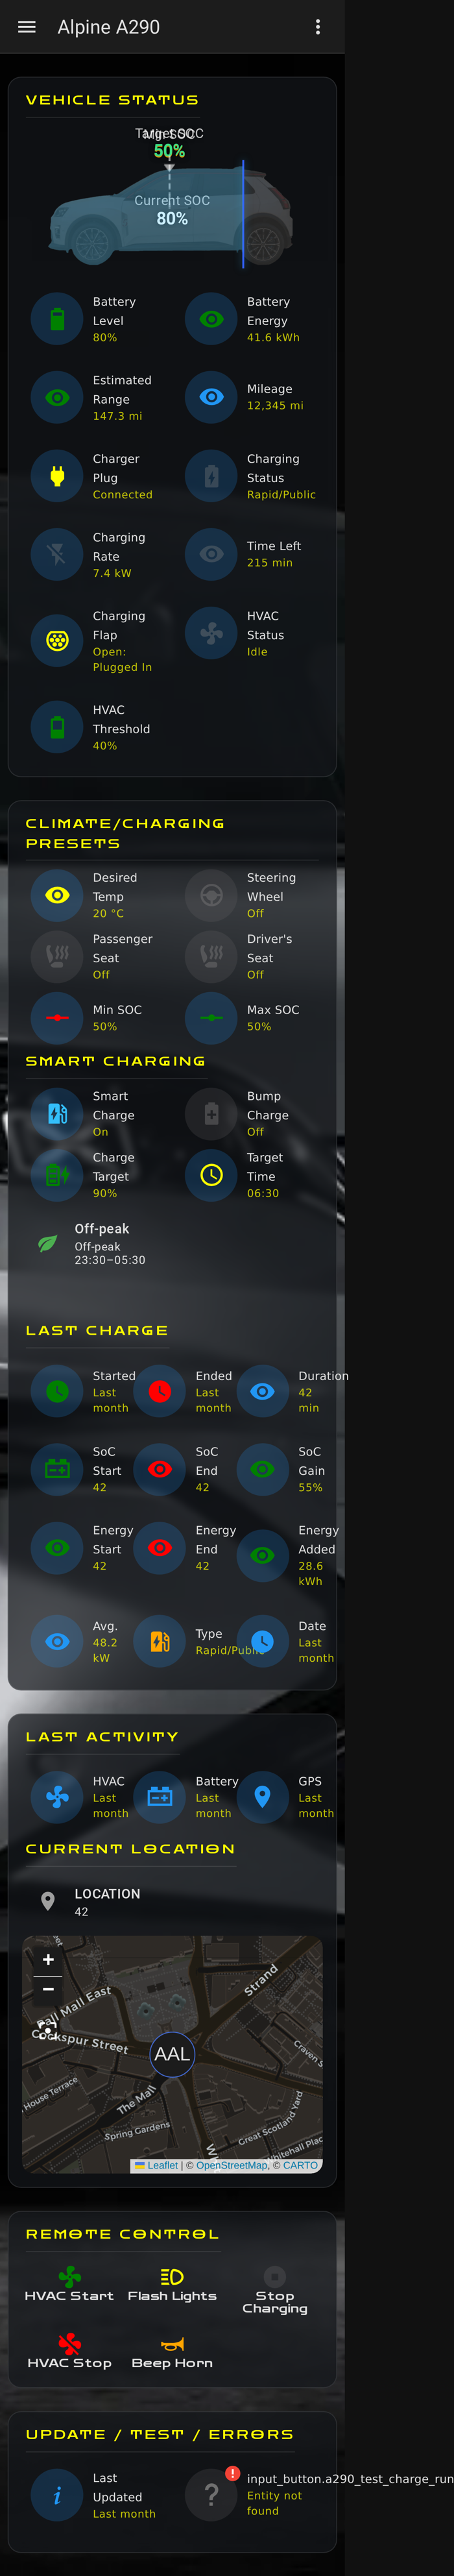
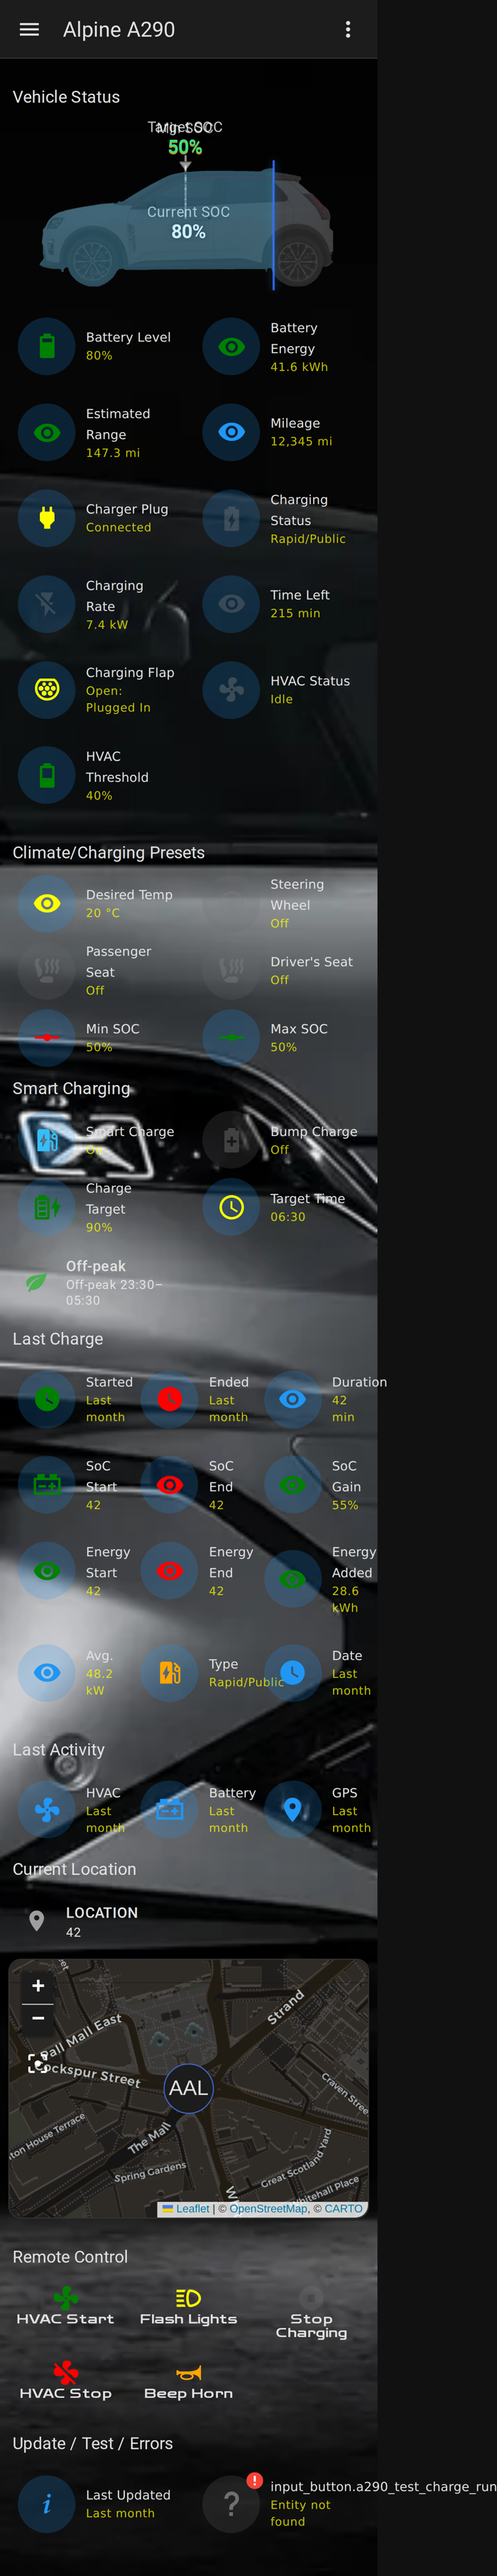
test(ui-tests): vendor Bubble Card locally instead of loading it from jsDelivr (#84)
* test(ui-tests): vendor Bubble Card locally instead of loading it from jsDelivr

Bubble Card was the only one of the four cards still loaded live from jsDelivr
(pinned to @user, a floating branch), so the truncation gate fetched ~850KB over
the network at render time — which intermittently produced a transient
hui-error-card on the widest viewport (seen once during the Galaxy S24 de-flake
work). It's also non-deterministic: @user moves under the gate, exactly what the
other three pinned cards avoid.

At a pinned release (v3.2.5) dist/bubble-card.js is a single self-contained bundle
(no dynamic chunk imports — the "chunked" note was stale), so vendor it into
www/cards like the others and register it as /local/cards/bubble-card.js. No card is
fetched over the network at render time now (the Zen Dots webfont stays remote).
Verified: full matrix clean, including alpine-bubble @ iPhone 15 Pro Max (430px).
Bump it alongside the other card pins when tracking upstream.

* chore: refresh dashboard screenshots [refresh-shots]

---------

diff --git a/ui-tests/seed.py b/ui-tests/seed.py
@@ -34,14 +34,14 @@ CHARGER_DEMO = {
     "A290_CHARGER_DISPATCHING": "binary_sensor.demo_intelligent_dispatching",
 }
 
-# Lovelace resources. card-mod first (it patches card rendering); mushroom/button-card are
-# vendored single-file bundles served from /local/cards; bubble-card is chunked so it loads
-# from jsDelivr (chunks co-locate there); Zen Dots is the dashboards' display font.
+# Lovelace resources. card-mod first (it patches card rendering); all four cards are vendored
+# single-file bundles served same-origin from /local/cards (see run.sh) so no card is fetched
+# over the network at render time; Zen Dots (the display font) is the one remaining remote load.
 RESOURCES = [
     ("/local/cards/card-mod.js", "module"),
     ("/local/cards/mushroom.js", "module"),
     ("/local/cards/button-card.js", "module"),
-    ("https://cdn.jsdelivr.net/gh/Clooos/Bubble-Card@main/dist/bubble-card.js", "module"),
+    ("/local/cards/bubble-card.js", "module"),
     ("https://fonts.googleapis.com/css2?family=Zen+Dots&display=swap", "css"),
 ]
 

diff --git a/ui-tests/README.md b/ui-tests/README.md
@@ -7,8 +7,10 @@ Mushroom tile labels clipping on a phone.
 
 ## How it works
 
-1. `run.sh` boots a throwaway Home Assistant container, vendors the custom cards
-   (Mushroom, Button Card, card-mod into `www/`; Bubble Card from jsDelivr), and completes
+1. `run.sh` boots a throwaway Home Assistant container, vendors all four custom cards
+   (Mushroom, Button Card, card-mod, Bubble Card) as pinned single-file bundles into `www/`
+   — served same-origin so no card loads over the network at render time (only the Zen Dots
+   webfont is still fetched remotely) — and completes
    onboarding to get an API token.
 2. `seed.py` gives every entity the dashboards reference a representative state via the REST
    `/api/states` API — no MQTT or add-on needed, since the cards read `hass.states`